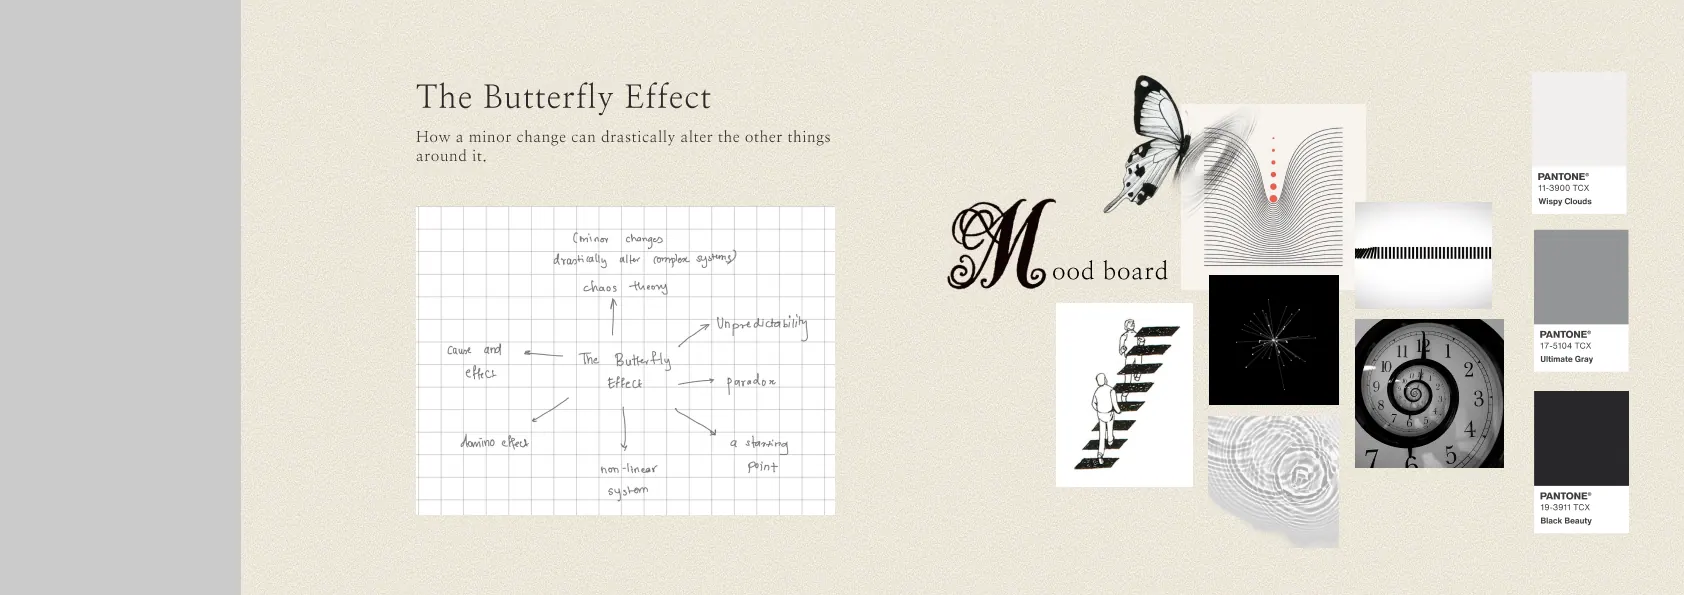
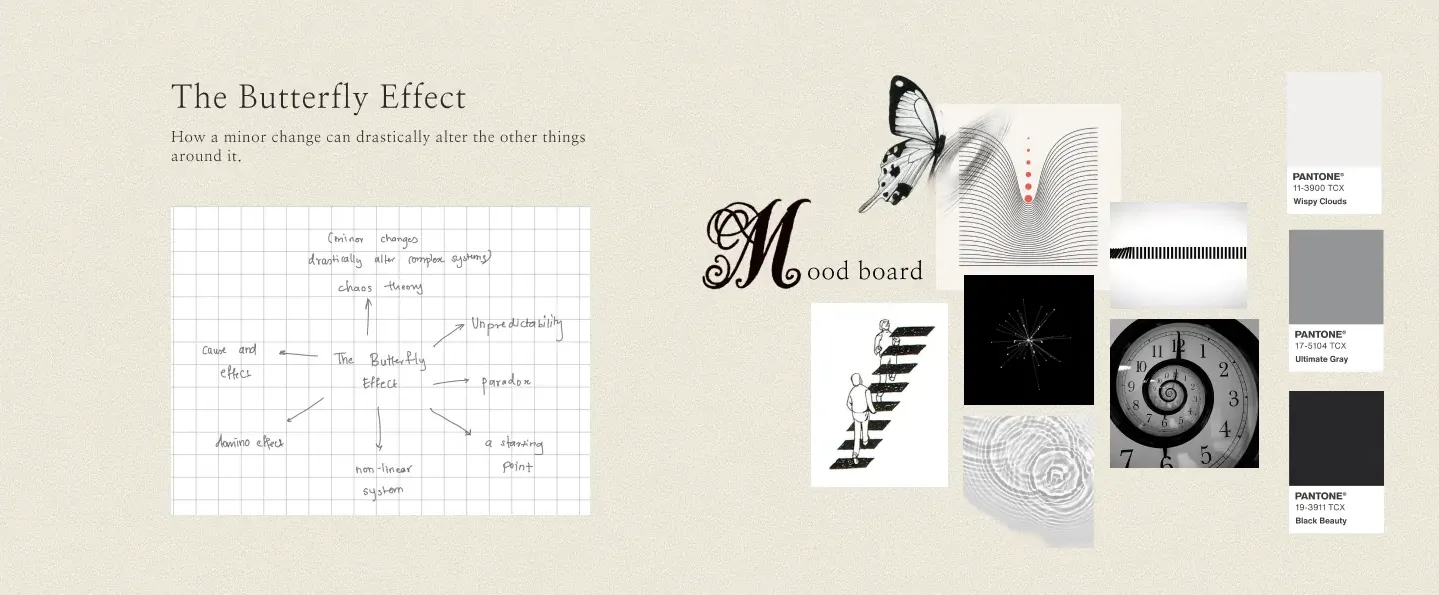
Internship: tell Part I as two collections
White shirt collection (got the internship) -> order-book research
showing it wasn't viable -> turning point with founder Pranav
Bhagwat -> koi motif development -> the koi collection looks.

Claude-Session: https://claude.ai/code/session_01PKNH2aALtLMMTCHowWMFX5

diff --git a/internship.html b/internship.html
@@ -195,6 +195,14 @@ blockquote footer{font:400 15px var(--body);color:var(--mut);margin-top:14px}
 
 
 
+
+/* collections + turning point */
+.moodfig{margin:30px 0 0}.moodfig img{width:100%;border-radius:8px;box-shadow:0 18px 44px rgba(0,0,0,.12)}
+.moodfig figcaption,.flatfig figcaption{font-size:14px;color:var(--mut);margin-top:10px}
+.flatfig{margin:40px auto 0;max-width:760px}.flatfig img{width:100%;border-radius:8px;background:#fff;padding:10px;box-shadow:0 14px 34px rgba(0,0,0,.1)}
+.turn{background:var(--acc);color:#fff;padding:clamp(70px,9vw,130px) max(5vw,16px)}
+.turn h2{font-size:clamp(40px,6vw,80px);font-stretch:62%;font-weight:900;max-width:16ch}
+.turn p{max-width:58ch;margin-top:18px;font-size:19px;color:#e6ecff}
 /* look explorer */
 .lchips{display:flex;flex-wrap:wrap;gap:8px;margin-top:28px}
 .lchips button{min-height:40px;padding:0 16px;border-radius:999px;border:1px solid var(--ink);background:transparent;font-size:14px}
@@ -326,19 +334,44 @@ blockquote footer{font:400 15px var(--body);color:var(--mut);margin-top:14px}
  </div>
 </section>
 
+<!-- collection one: white shirt -->
+<section class="sec">
+ <div class="wrap">
+  <div class="kick"><b></b>Collection one</div>
+  <div class="cathd">
+   <h2>The white shirt collection</h2>
+   <p class="lede">The collection that got me the internship. It's built on “The Butterfly Effect”: a minor change can alter everything around it, so one small detail changes the whole shirt. Blanco asked me to keep developing it.</p>
+  </div>
+  <figure class="moodfig"><img class="z" src="img/in/mood.webp" alt="The Butterfly Effect moodboard: grid notes, spirals, a butterfly and a Pantone strip"><figcaption>Moodboard · The Butterfly Effect</figcaption></figure>
+ </div>
+</section>
+
+<!-- line-up rail -->
+<section class="rail" id="rail">
+ <div class="stick">
+  <div class="hd"><div><div class="kick"><b></b>Collection one · the white shirt collection</div><h2>From sketch to line-up</h2></div><p class="mut" style="max-width:40ch">Scroll to move along the rail. Tap any drawing to see it full size.</p></div>
+  <div class="track" id="track">
+   <figure><img class="z" src="img/in/lineup.webp" alt="Line-up of initial white shirt sketches"><figcaption><b>Initial sketches</b>the full line</figcaption></figure>
+   <figure><img class="z" src="img/in/det1.webp" alt="Shirt sketches with cut-and-sew, fabric manipulation and box pleat details"><figcaption><b>Details</b>cut-and-sew, fabric manipulation, box pleats</figcaption></figure>
+   <figure><img class="z" src="img/in/det2.webp" alt="Further shirt detail sketches"><figcaption><b>Details</b>embroidery placement and trims</figcaption></figure>
+  </div>
+  <div class="prog"><i id="prog"></i></div>
+ </div>
+</section>
+
 <!-- research desk -->
 <section class="sec">
  <div class="wrap">
-  <div class="kick"><b></b>Research → design</div>
+  <div class="kick"><b></b>Testing it against the order books</div>
   <h2>Three to four years of order books</h2>
   <div class="desk">
    <div>
-    <p class="lede">My internship began with a white shirt collection. I read through Blanco's order books and the custom requests that kept returning became the brief.</p>
+    <p class="lede">Before taking the collection further, I went through three to four years of Blanco's order books and custom preferences to see what customers actually ask for.</p>
     <div class="steps">
      <div><i></i><b>Observe</b><span>Order books</span><em>Recurring requests across three to four years.</em></div>
      <div><i></i><b>Notice</b><span>Customer preferences</span><em>Details that return often enough to guide choices.</em></div>
-     <div><i></i><b>Apply</b><span>White shirt collection</span><em>Research turned into a design direction.</em></div>
-     <div><i></i><b>Iterate</b><span>Design iterations</span><em>My own development work.</em></div>
+     <div><i></i><b>Test</b><span>White shirt collection</span><em>Checked against what customers really order.</em></div>
+     <div><i></i><b>Rethink</b><span>Not viable for the market</span><em>The collection needed a new direction.</em></div>
     </div>
    </div>
    <figure class="paper" style="margin:0;max-width:360px;justify-self:center"><img class="z" src="img/in/order.webp" alt="A Blanco order sheet with measurements and a hand-drawn shirt"></figure>
@@ -371,42 +404,40 @@ blockquote footer{font:400 15px var(--body);color:var(--mut);margin-top:14px}
  </div>
 </section>
 
-<!-- moodboard + motif scatter -->
-<section class="sec">
+<!-- turning point -->
+<section class="turn">
  <div class="wrap">
-  <div class="kick"><b></b>Concept</div>
-  <h2>The Butterfly Effect</h2>
-  <p class="lede" style="margin-top:14px">How a minor change can drastically alter everything around it: a small detail changes the whole shirt. The brand's own lettering became a motif, and the motif became buttons and embroidery.</p>
-  <div class="scat" id="scat">
-   <figure data-d="18" style="left:0;top:2%;width:54%"><img class="z" src="img/in/mood.webp" alt="The Butterfly Effect moodboard"><figcaption>Moodboard: grid notes, spirals, butterfly and a Pantone strip</figcaption></figure>
-   <figure data-d="34" style="left:60%;top:0;width:38%"><img class="z" src="img/in/motif.webp" alt="Blanco-inspired b motif developing into a fish-like form"><figcaption>Blanco-inspired motif: the “b” evolves</figcaption></figure>
-   <figure data-d="26" style="left:4%;top:46%;width:40%"><img class="z" src="img/in/buttons.webp" alt="Brass and horn buttons"><figcaption>Button selection</figcaption></figure>
-   <figure data-d="40" style="left:50%;top:40%;width:46%"><img class="z" src="img/in/refboard.webp" alt="Reference board of menswear looks and fabrics"><figcaption>Fabric and reference board</figcaption></figure>
-  </div>
+  <div class="kick" style="color:#cfd9ff"><b style="background:#fff"></b>The turning point</div>
+  <h2>A motif for Blanco, made with its founder</h2>
+  <p>The research showed my white shirt collection wasn't viable for Blanco's market. Together with the founder, Pranav Bhagwat, we decided to develop a motif for the brand instead, inspired by the koi and its serenity.</p>
  </div>
 </section>
 
-<!-- line-up rail -->
-<section class="rail" id="rail">
- <div class="stick">
-  <div class="hd"><div><div class="kick"><b></b>The white shirt collection</div><h2>From sketch to line-up</h2></div><p class="mut" style="max-width:40ch">Scroll to move along the rail. Tap any drawing to see it full size.</p></div>
-  <div class="track" id="track">
-   <figure><img class="z" src="img/in/lineup.webp" alt="Line-up of initial white shirt sketches"><figcaption><b>Initial sketches</b>the full line</figcaption></figure>
-   <figure><img class="z" src="img/in/det1.webp" alt="Shirt sketches with cut-and-sew, fabric manipulation and box pleat details"><figcaption><b>Details</b>cut-and-sew, fabric manipulation, box pleats</figcaption></figure>
-   <figure><img class="z" src="img/in/det2.webp" alt="Further shirt detail sketches"><figcaption><b>Details</b>embroidery placement and trims</figcaption></figure>
-   <figure><img class="z" src="img/in/flats.webp" alt="Technical flats of shirts in a grid"><figcaption><b>Technical flats</b>for the tailors</figcaption></figure>
+<!-- collection two: koi motif -->
+<section class="sec">
+ <div class="wrap">
+  <div class="kick"><b></b>Collection two · the koi motif</div>
+  <div class="cathd">
+   <h2>From the Blanco “b” to a koi</h2>
+   <p class="lede">The motif board, the button design and the references Pranav and I agreed on, before the koi became a collection.</p>
   </div>
-  <div class="prog"><i id="prog"></i></div>
+  <div class="scat" id="scat">
+   <figure data-d="18" style="left:0;top:2%;width:40%"><img class="z" src="img/in/logo.webp" alt="The Blanco wordmark"><figcaption>Motif board: the Blanco wordmark as the starting point</figcaption></figure>
+   <figure data-d="34" style="left:46%;top:0;width:52%"><img class="z" src="img/in/motif.webp" alt="The Blanco b motif developing into a koi"><figcaption>The “b” evolves into a koi</figcaption></figure>
+   <figure data-d="26" style="left:2%;top:44%;width:42%"><img class="z" src="img/in/buttons.webp" alt="Button designs"><figcaption>Button design</figcaption></figure>
+   <figure data-d="40" style="left:52%;top:53%;width:46%"><img class="z" src="img/in/refboard.webp" alt="Reference board of menswear looks and fabrics"><figcaption>References agreed with Pranav</figcaption></figure>
+  </div>
+  <figure class="flatfig"><img class="z" src="img/in/flats.webp" alt="Technical flats of shirts in a grid"><figcaption><b>Technical flats</b> for the tailors</figcaption></figure>
  </div>
 </section>
 
 <!-- look explorer -->
 <section class="sec" id="looks">
  <div class="wrap">
-  <div class="kick"><b></b>The collection</div>
+  <div class="kick"><b></b>Collection two · the koi collection</div>
   <div class="cathd">
    <h2>Eleven shirts, look by look</h2>
-   <p class="lede">The white shirt collection in full: classics, creative and casual. Pick a look from the rail, hover the photo to inspect the work up close, and open any detail.</p>
+   <p class="lede">The final koi collection, garment by garment: classics, creative and casual. Pick a look from the rail, hover the photo to inspect the work up close, and open any detail.</p>
   </div>
   <div class="lchips" role="tablist" aria-label="Filter looks"></div>
   <div class="rail2" id="lrail" role="listbox" aria-label="Looks"></div>
